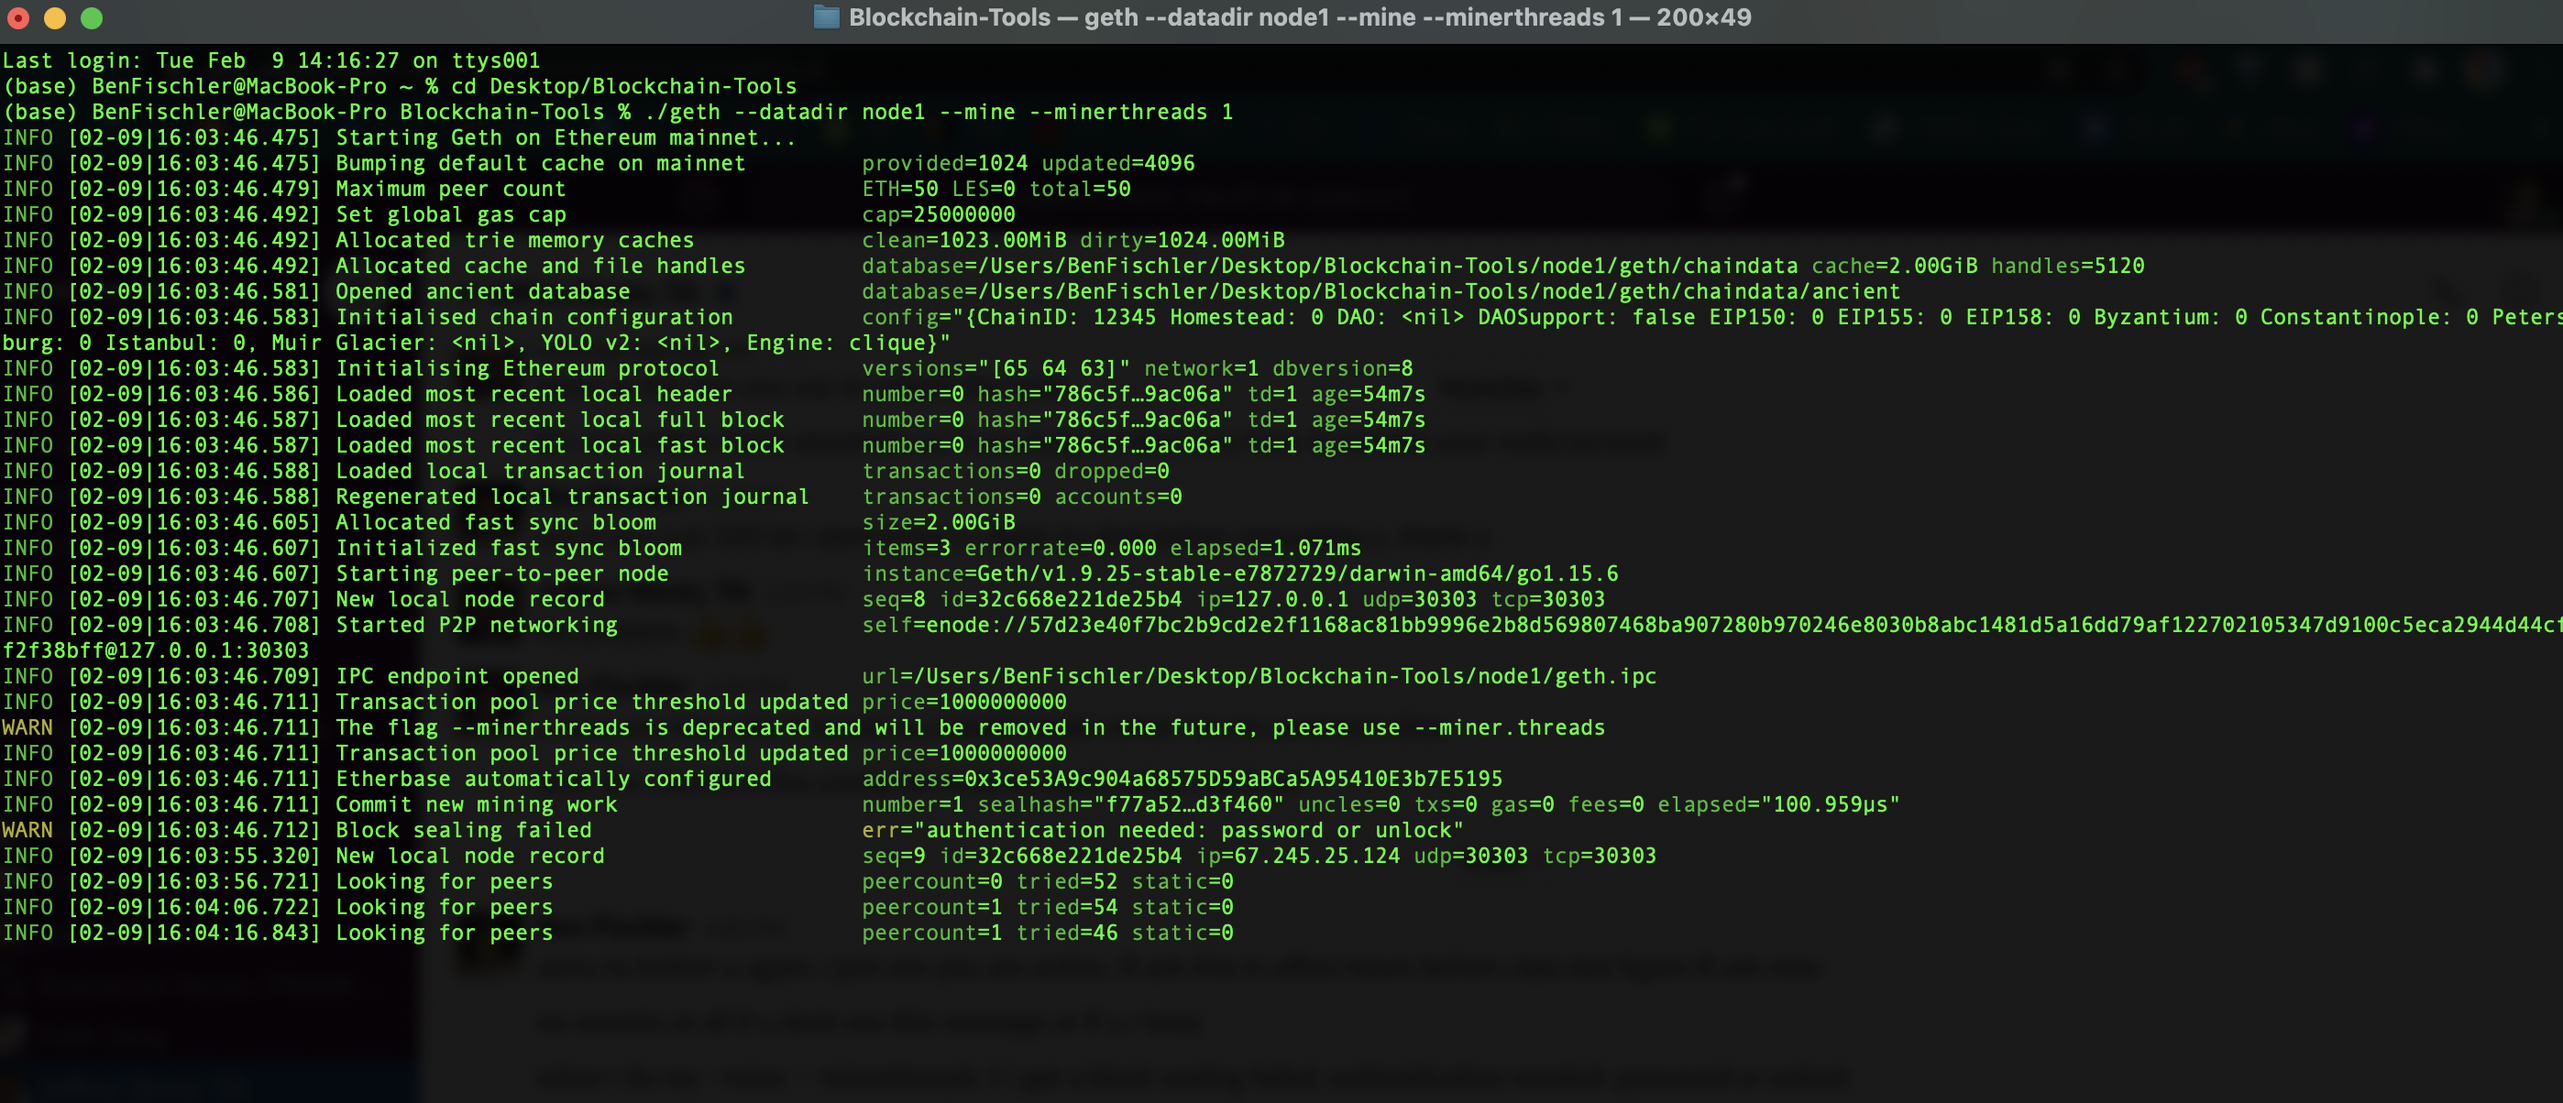
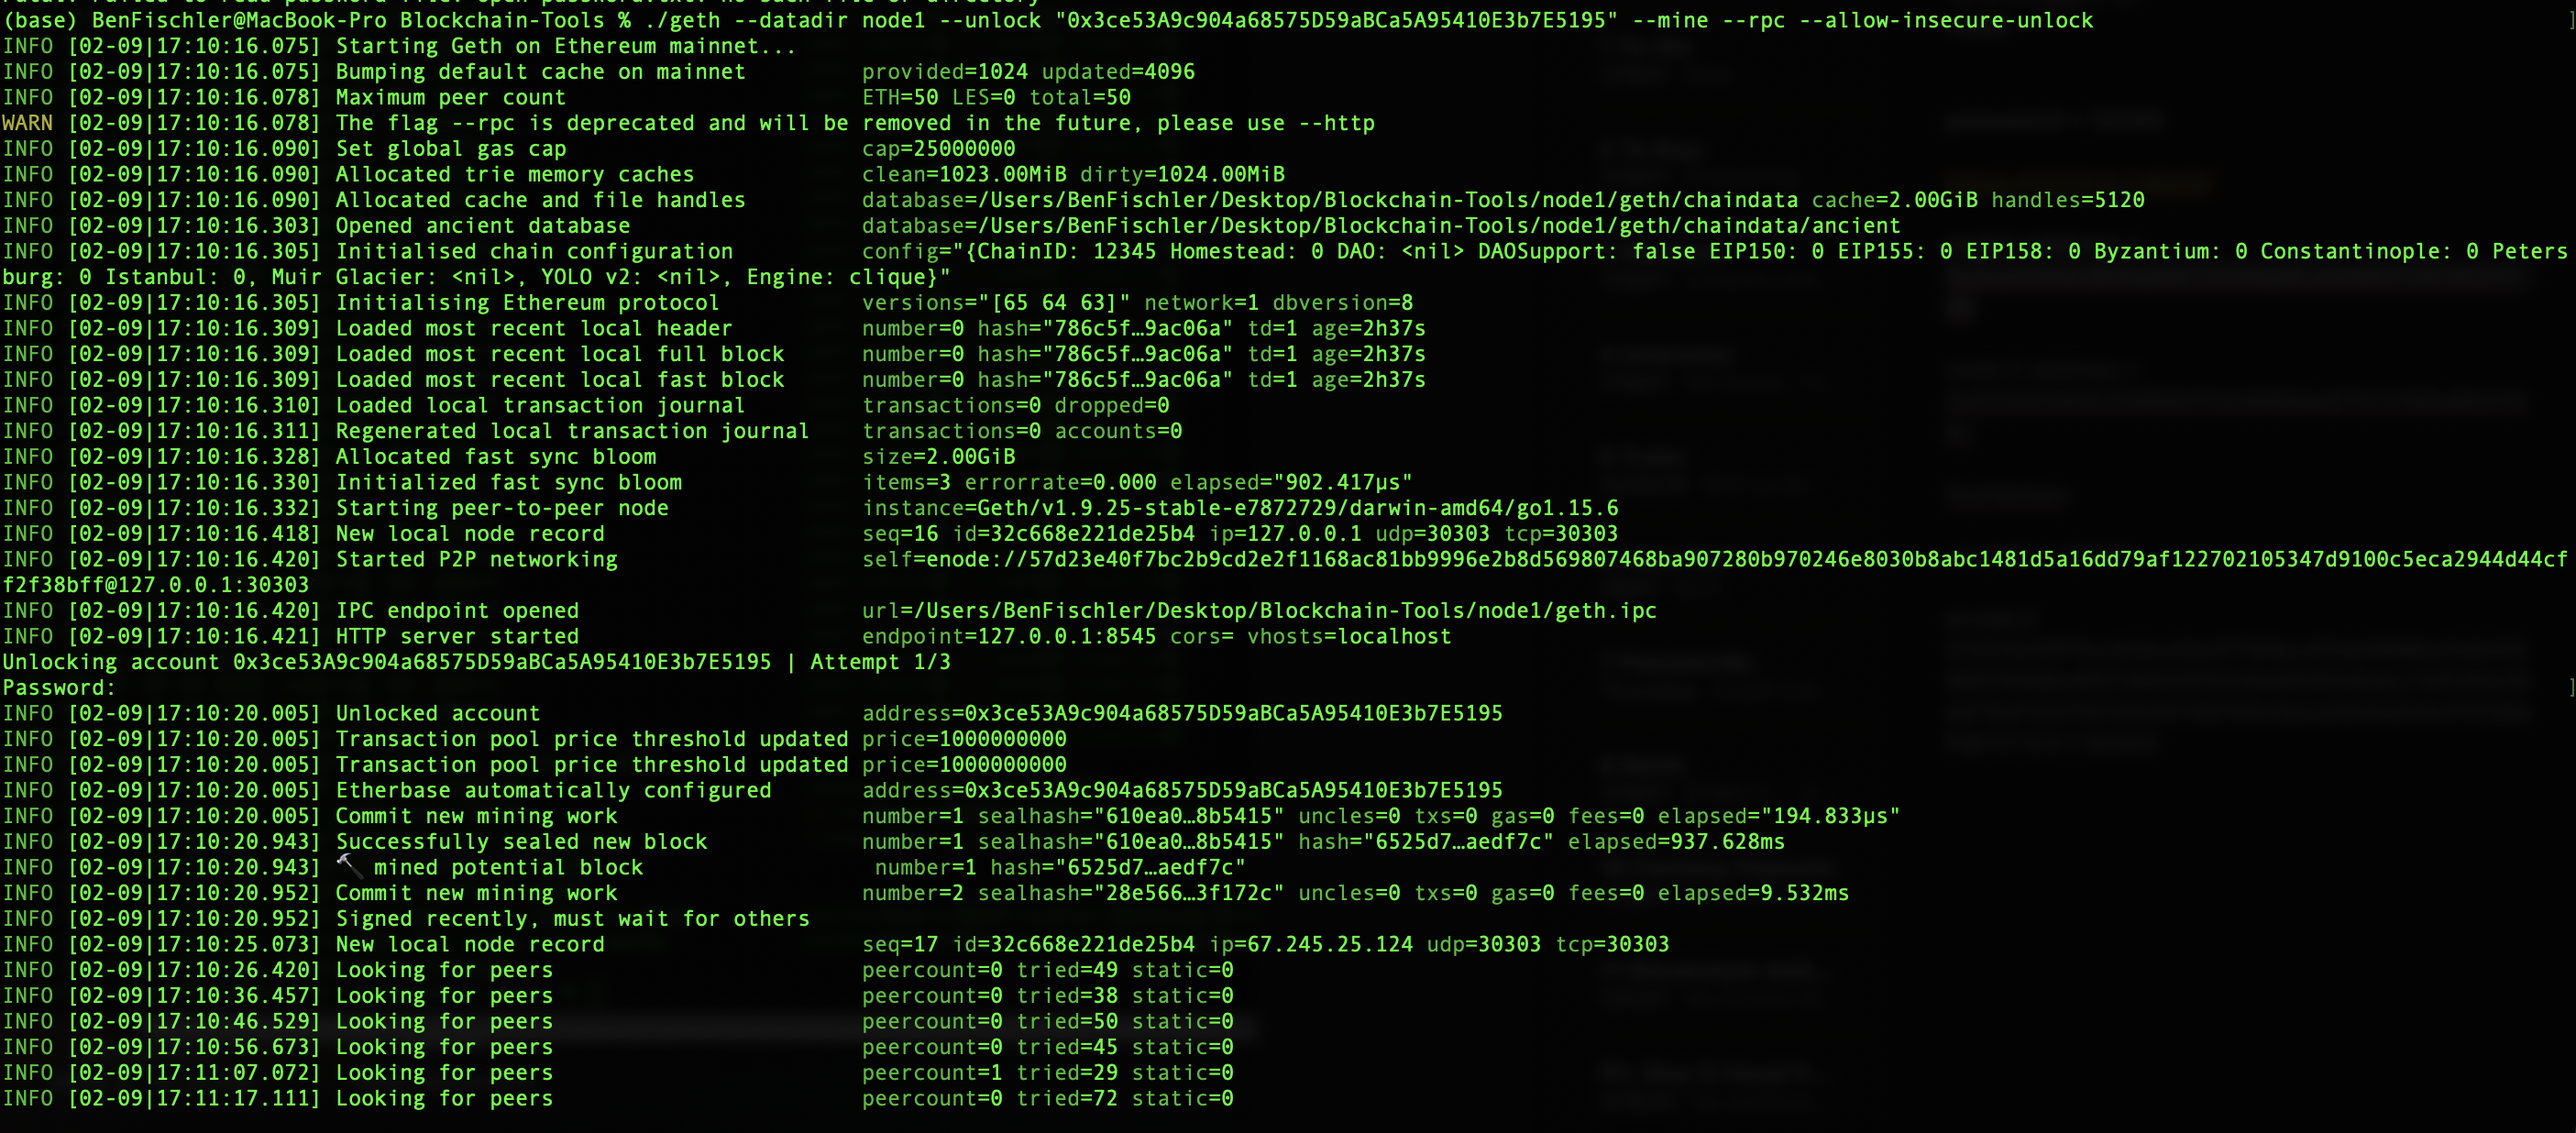
new mining

Changed region(s): [[0.0, 0.0, 1.0, 0.9834]]

diff --git a/.ipynb_checkpoints/README-checkpoint.md b/.ipynb_checkpoints/README-checkpoint.md
@@ -47,14 +47,14 @@ You will get the same message as above.
 
 # 5. Launch the first node into mining mode:
 
-    ./geth --datadir node1 --mine --minerthreads 1
+    ./geth --datadir node1 --unlock "0x3ce53A9c904a68575D59aBCa5A95410E3b7E5195" --mine --rpc --allow-insecure-unlock
     
 The above results in the following terminal:
 ![mining1](/Screenshots/mining1.png?raw=true)
 
 Now, open a new terminal window, cd into your Blockchain-Tools, and launch the second node, passing in the enode address of the first node:
 
-    ./geth --datadir node2 --port 30304 --rpc --bootnodes "enode://57d23e40f7bc2b9cd2e2f1168ac81bb9996e2b8d569807468ba907280b970246e8030b8abc1481d5a16dd79af122702105347d9100c5eca2944d44cff2f38bff@127.0.0.1:30303"
+    ./geth --datadir node2 --mine --unlock "0x62500595E256890FD546B9de97572180a664406c" --port 30304 --allow-insecure-unlock --bootnodes enode://57d23e40f7bc2b9cd2e2f1168ac81bb9996e2b8d569807468ba907280b970246e8030b8abc1481d5a16dd79af122702105347d9100c5eca2944d44cff2f38bff@127.0.0.1:30303
     
 The above results in the following terminal:
 ![mining2](/Screenshots/mining2.png?raw=true)

diff --git a/README.md b/README.md
@@ -47,14 +47,14 @@ You will get the same message as above.
 
 # 5. Launch the first node into mining mode:
 
-    ./geth --datadir node1 --mine --minerthreads 1
+    ./geth --datadir node1 --unlock "0x3ce53A9c904a68575D59aBCa5A95410E3b7E5195" --mine --rpc --allow-insecure-unlock
     
 The above results in the following terminal:
 ![mining1](/Screenshots/mining1.png?raw=true)
 
 Now, open a new terminal window, cd into your Blockchain-Tools, and launch the second node, passing in the enode address of the first node:
 
-    ./geth --datadir node2 --port 30304 --rpc --bootnodes "enode://57d23e40f7bc2b9cd2e2f1168ac81bb9996e2b8d569807468ba907280b970246e8030b8abc1481d5a16dd79af122702105347d9100c5eca2944d44cff2f38bff@127.0.0.1:30303"
+    ./geth --datadir node2 --mine --unlock "0x62500595E256890FD546B9de97572180a664406c" --port 30304 --allow-insecure-unlock --bootnodes enode://57d23e40f7bc2b9cd2e2f1168ac81bb9996e2b8d569807468ba907280b970246e8030b8abc1481d5a16dd79af122702105347d9100c5eca2944d44cff2f38bff@127.0.0.1:30303
     
 The above results in the following terminal:
 ![mining2](/Screenshots/mining2.png?raw=true)
